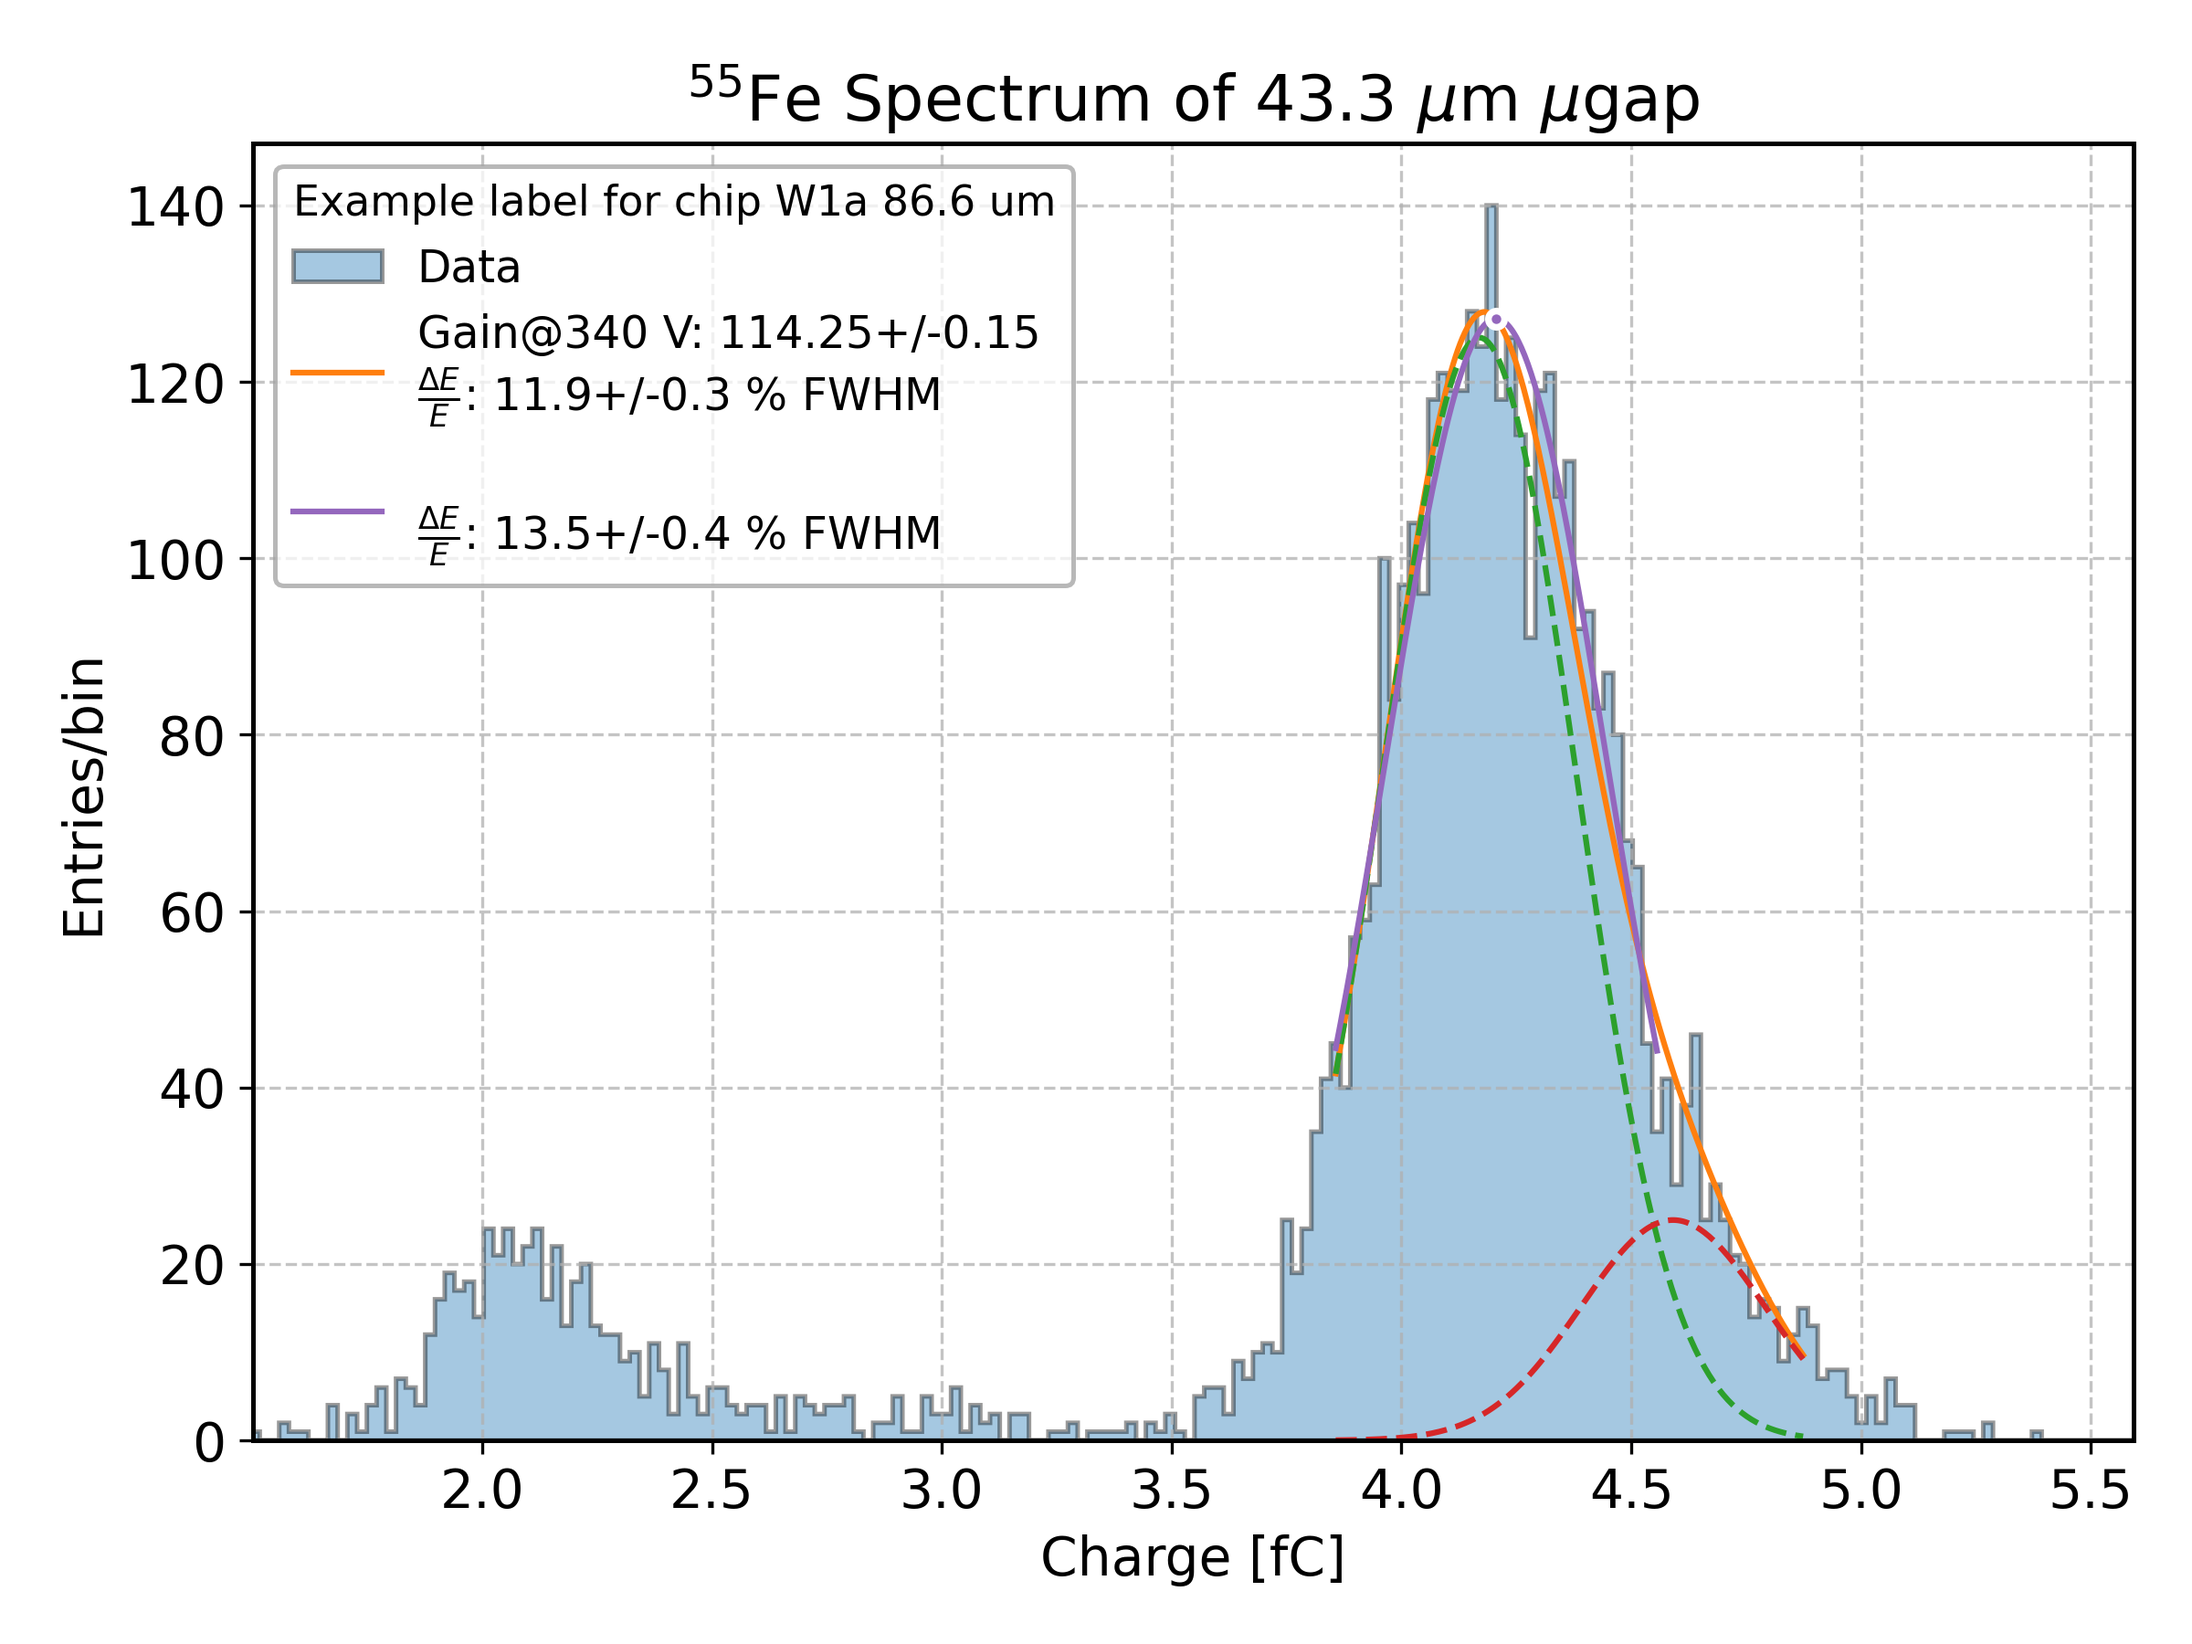
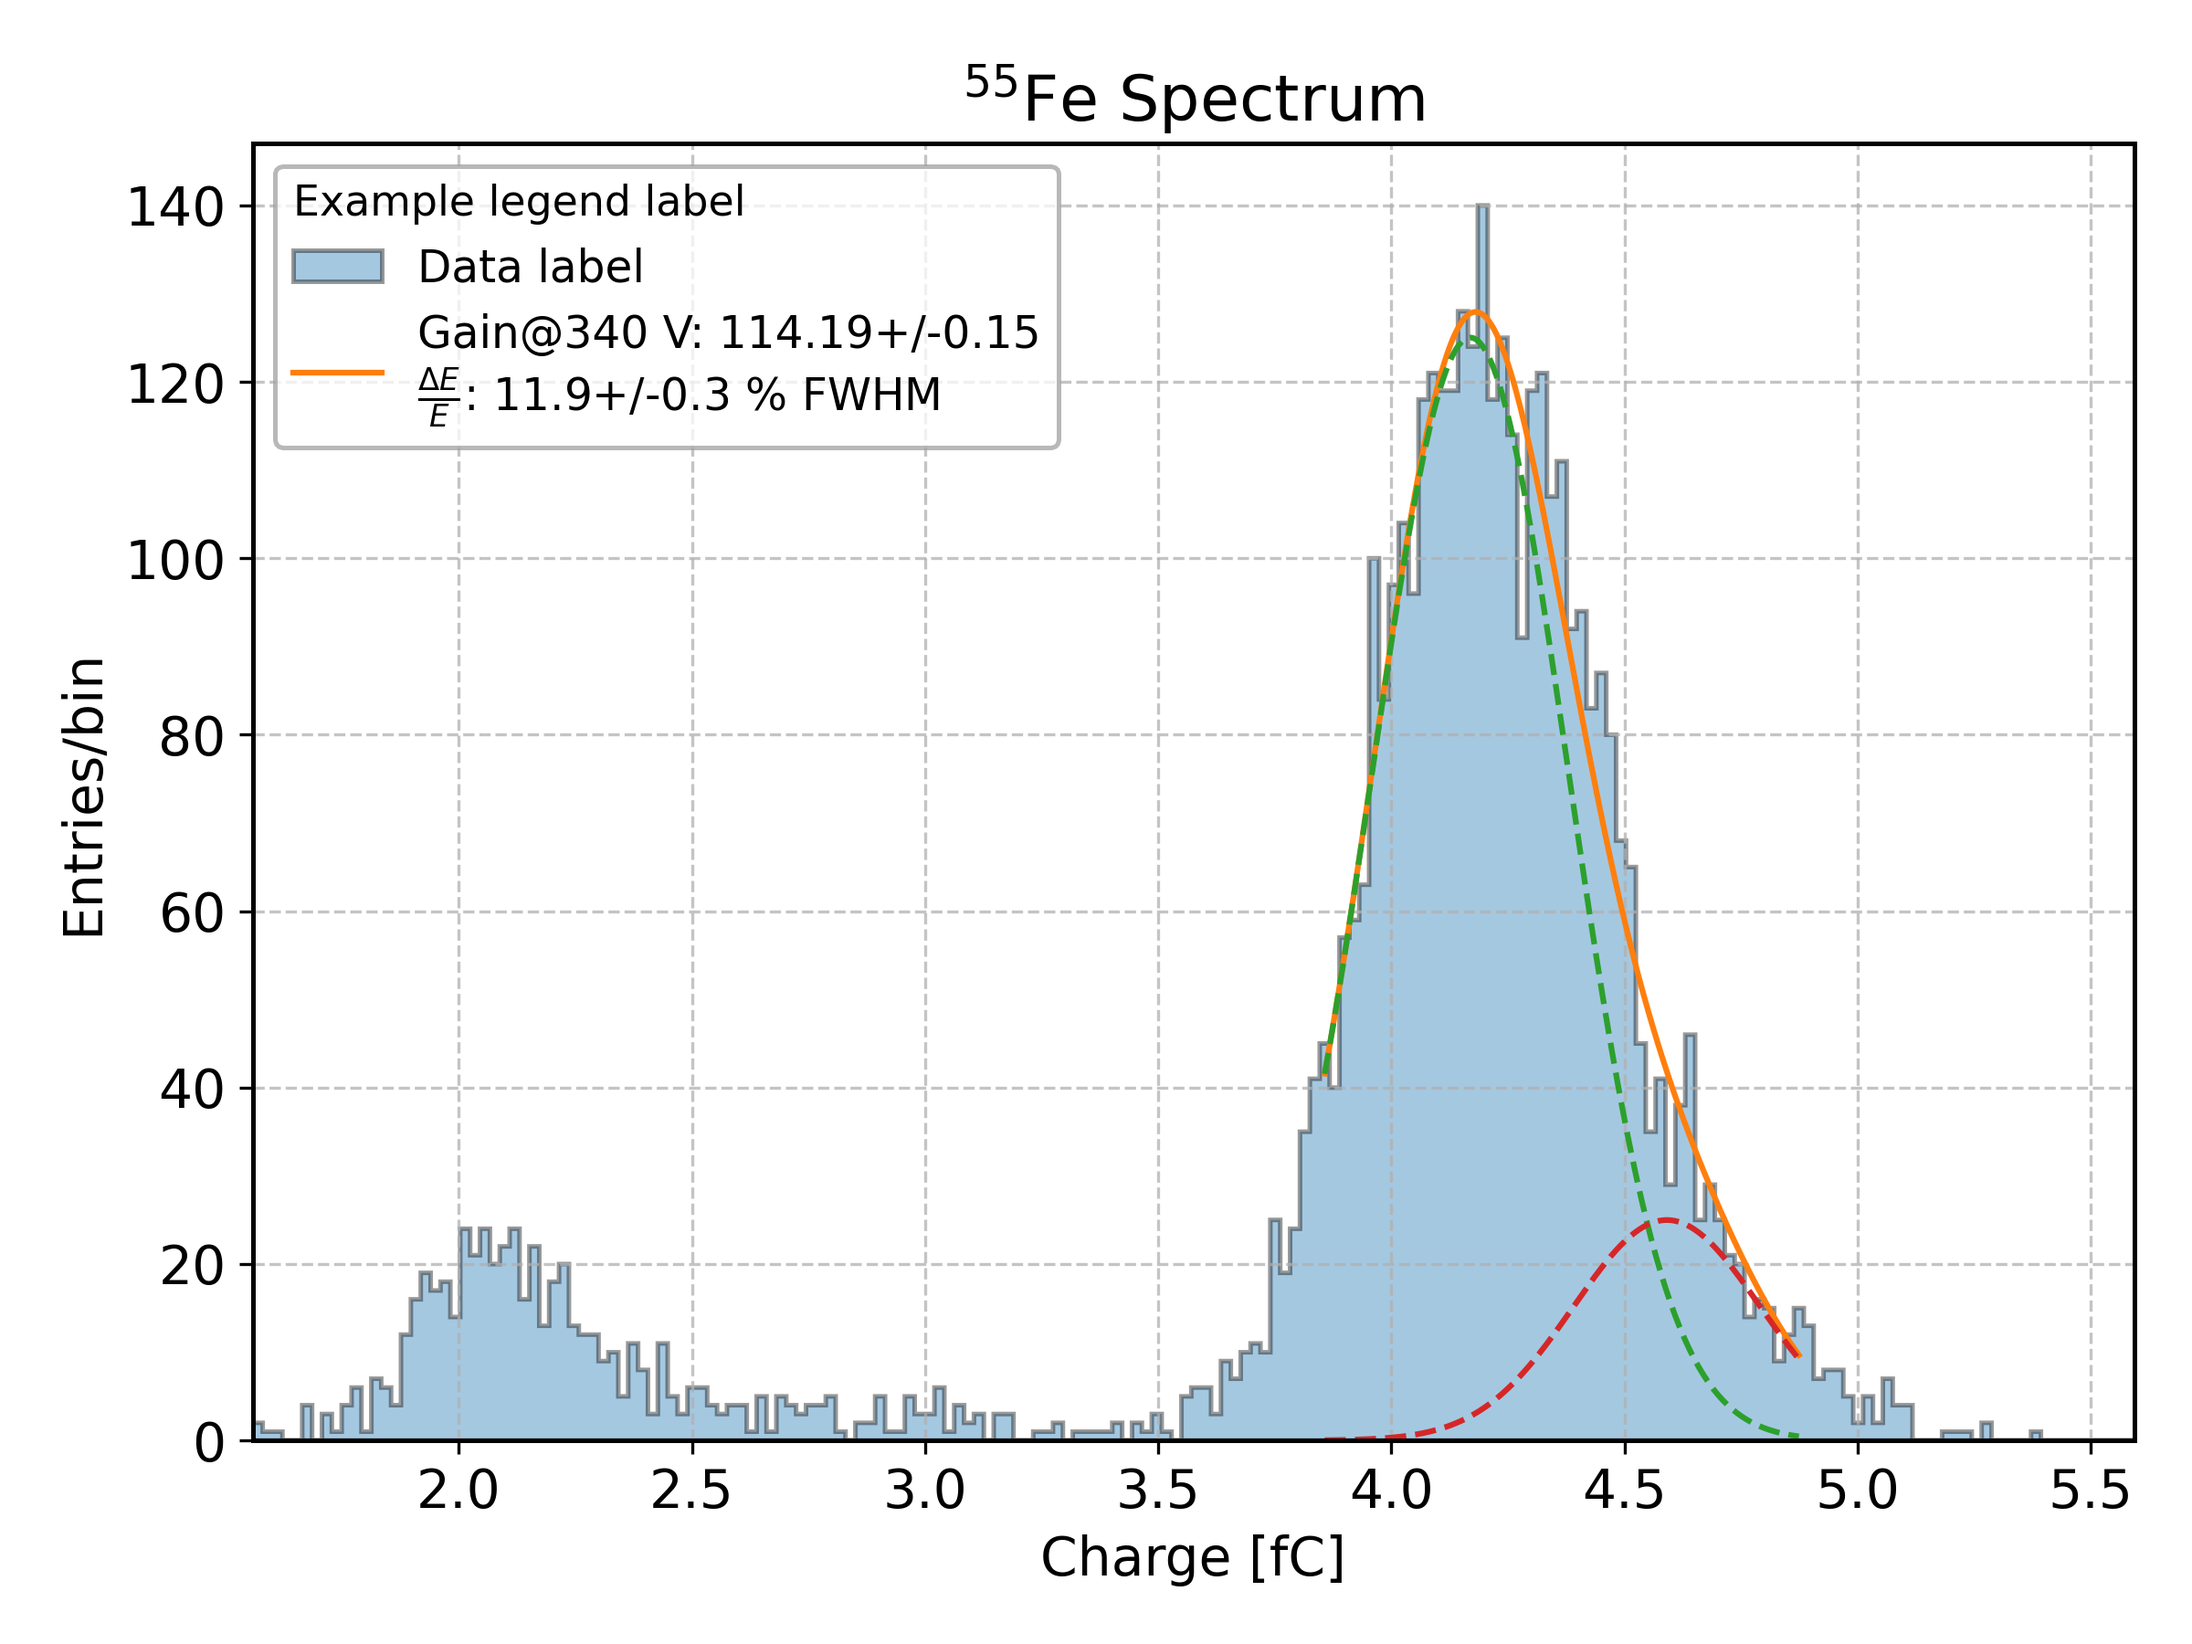
Major tasks' signature refactoring.

diff --git a/src/analysis/config.py b/src/analysis/config.py
@@ -121,6 +121,17 @@ class SourceDefaults:
 
 
 class SourceConfig(BaseModel):
+    """Set the acquisition parameters of the source and the detector.
+
+    Attributes
+    ----------
+    energy : float
+        The energy of the main emission line, expressed in keV. Default is K-alpha of Fe55
+        (5.9keV).
+    w : float
+        W-value of the gas used in the detector, expressed in eV. Default is 26.0 eV, which
+        is the W-value of Argon.
+    """
     energy: float = SourceDefaults.energy
     w: float = SourceDefaults.w
 

diff --git a/docs/guide.md b/docs/guide.md
@@ -62,11 +62,11 @@ An example of correct file name is `data_D1000B380_40.mca`
 
 To run the analysis, a configuration file must always be specified. This section explains how to write a correct configuration file.
 
-The configuration file is a .yaml file which contains all the information about the acquisition (e.g. the date, the detector, the source, etc...) and the analysis pipeline. This file allows to write an analysis pipeline in which each task can be finely configured, contrarly to a simple CLI.
+The configuration file is a .yaml file which contains all the information to run the analysis and also for the plot style. This file allows to write an analysis pipeline in which each task can be configured.
 
 **Warning:**  when a key is optional and you want to set it to the default value, all the line must be deleted, not only the value, otherwise a type error can be raised or a `None` value can be assigned to the key.
 
-### Acquisition
+<!-- ### Acquisition
 
 The acquisition dictionary stores information about the acquisition, such as the date of the acquisition, the name and type of the chip and other detector and source properties. These properties are stored as keys of the dictionary, and a value is assigned to each of them. 
 
@@ -84,6 +84,20 @@ acquisition:
   element: Fe55
   e_peak: 5.9
 ```
+ -->
+
+### Source
+
+The source dictionary allows to set the properties of the source, such as the energy of the main emission line, and also the detector constants, such as the W-value of the gas.
+
+This dictionary is optional, and none of its field is mandatory. In case a key is not specified, the analysis use the default value.
+
+```yaml
+source:
+  energy: 5.9   # Optional, default is K-alpha of Fe55
+  w: 26.0       # Optional, default is w-value of Ar
+```
+
 
 ### Pipeline
 
@@ -93,7 +107,7 @@ The tasks order in the configuration file does not affect execution, as priority
 
 Apart from the `calibration` and `fit_spec` tasks, which are executed once at the beginning of the analysis, all the other tasks can be written multiple times, specifying different `target` or configuration parameters. As an example, if you have multiple emission lines in a spectrum and you want to estimate the resolution from each of them independently, it is possible to write a `resolution` task for each of them by specifying the target declared during the `fit_spec` subtasks. See the next sections for more details.
 
-For a complete description of the possible keys of each task, please see [Tasks](tasks.md).
+For a complete description of the possible keys of each task, please see [Tasks](configs.md).
 
 #### Calibration
 
@@ -172,7 +186,7 @@ If there are multiple data taken at a given voltage, the mean of the gain estima
 ```yaml
   - task: compare_gain
     target: main_peak
-    combine:                     # Optional, combine the data of all the folders 
+    combine:                     # Optional, combine the data of the specified folders
       - folder0
       - folder1
 ```
@@ -238,18 +252,40 @@ In the case of spectral fitting and physical quantities estimate, it is possible
     targets:              # Optional, target fit to show
       - main_peak
       - escape_peak
-    title: Example title  # Optional, the title of the plot
-    label: Example label  # Optional, legend label of the plot
     task_labels:          # Optional, estimated quantities to show in the legend
       - gain
-    loc: best             # Optional, position of the legend in the plot
     xrange: [0., 3.]      # Optional, the x-axis range to show on the plot
-    show: true            # Optional, whether to show the plot
     xmin_fac: 0.5         # Optional, scale the automatic xrange left limit by a factor
     xmax_fac: 1.5         # Optional, scale the automatic xrange right limit by a factor
+    show: true            # Optional, whether to show the plot. If false, they can still be saved.
 ```
 
 ### Style
 
-The style dictionary allows to set the style, labels and titles of the plot.
+The style dictionary allows to set the style, labels and titles of the plots. The main keys of this dictionary are `tasks` and `folders`. To each of them can be assigned other dictionaries, whose key is the name of a task or a folder. Inside the latter dictionaries, the style settings of the plots can be specified.
+
+The `tasks` dictionary allows to modify the style and labels of the plots produced during tasks (e.g. `gain`, `resolution`, etc...).
+
+The `folders` dictionary is useful when producing plots with comparison between different folders. The labels, color, marker and line style of data points and best-fit curves can be configured. It is also possible to configure the label and style of combined results specifying the key `combine`.
+
+```yaml
+style:
+  # For tasks the syntax is the following  
+  tasks:
+    # Name of the task
+    plot:
+      # Configure the settings
+      title: $^{55}$Fe spectrum
+      legend_label: Chip
+      label: null
+  
+  # For folders
+  folders:
+    # Specify the name of the folder
+    folder0:  
+      label: Folder 0 Data
+      marker: .
+      color: black
+      linestyle: "-"
+```
 

diff --git a/docs/configs.md b/docs/configs.md
@@ -1,0 +1,31 @@
+# **Analysis Tasks Documentation**
+
+In this documentation there is a full explanation of all the tasks that can be executed through the pipeline in the YAML configuration file and their parameters.
+
+
+::: src.analysis.config.SourceConfig
+
+::: src.analysis.config.CalibrationConfig
+
+::: src.analysis.config.FitSpecConfig
+
+::: src.analysis.config.FitSubtaskConfig
+
+::: src.analysis.config.GainConfig
+
+::: src.analysis.config.CompareGainConfig
+
+::: src.analysis.config.ResolutionConfig
+
+::: src.analysis.config.ResolutionEscapeConfig
+
+::: src.analysis.config.CompareResolutionConfig
+
+::: src.analysis.config.TrendGainConfig
+
+::: src.analysis.config.CompareTrendConfig
+
+::: src.analysis.config.DriftConfig
+
+::: src.analysis.config.PlotConfig
+
